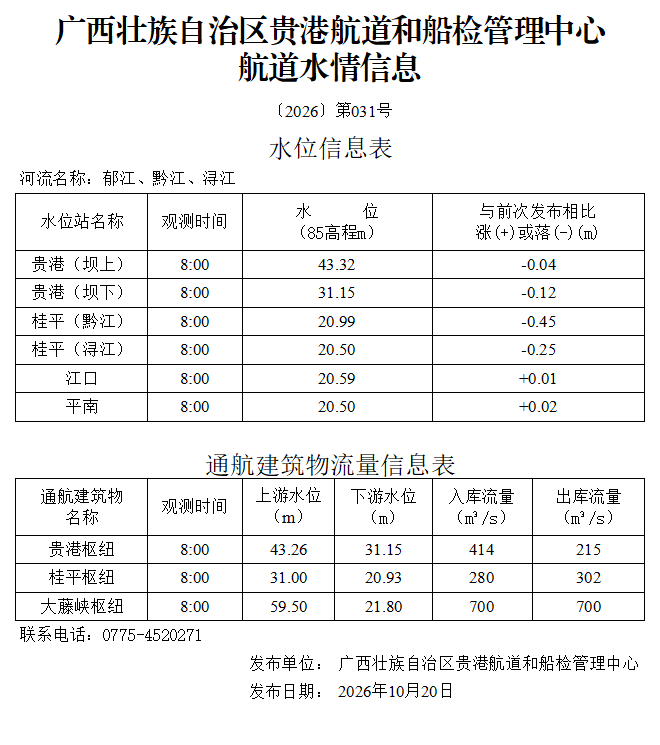
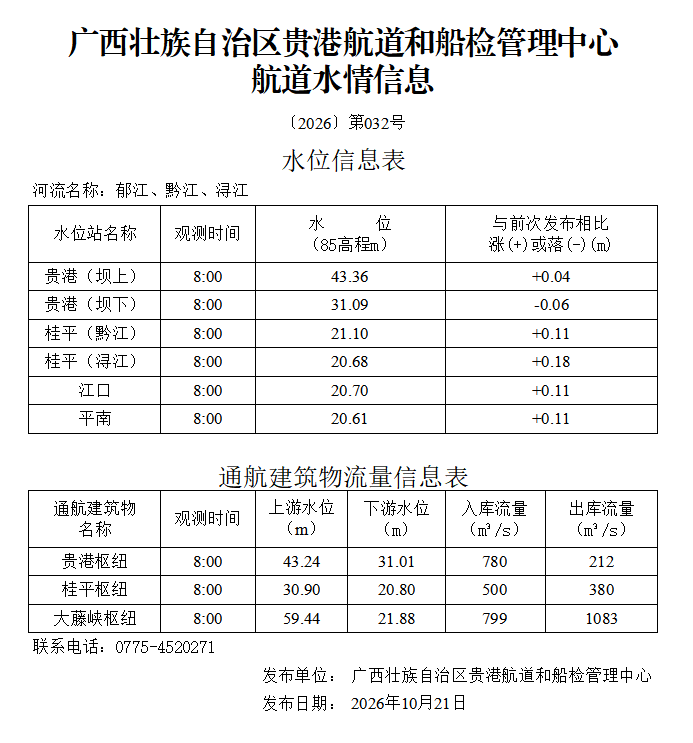
大藤峡和贵港两个枢纽数据从贵港的图片OCR结果中解析，可正常显示。灵活设置站点数据获取状态标识符号。

Changed region(s): [[0.0303, 0.0, 0.9697, 0.9596], [0.3636, 0.8668, 0.4848, 0.9596]]

diff --git a/water_level_report.html b/water_level_report.html
@@ -186,23 +186,23 @@
             <div class="status-item">
                 <span class="status-label">上游整体情况：</span>
                 <span class="status-value status-blue" style="font-size:35px">
-                    水位下降▼ &nbsp;整体变化0.28m &nbsp;&nbsp;
+                    水位较平稳 &nbsp;整体变化0.21m &nbsp;&nbsp;
                 </span>
             </div>
             <div class="status-item">
                 <span class="status-label">今早八点梧州水位：</span>
-                <span class="status-value status-blue">
-                    2.01m&nbsp;
+                <span class="status-value status-red">
+                    2.07m&nbsp;
                 </span>
                 <span class="status-label">较昨日变化：</span>
-                <span class="status-value status-blue">
-                    -0.09m▼
+                <span class="status-value status-red">
+                    +0.06m▲
                 </span>
             </div>
             <div class="status-item">
                 <span class="status-label">近2天梧州水位预报：</span>
                 <span class="status-value status-blue">
-                    1.90m~2.11m      &nbsp;&nbsp;&nbsp;&nbsp;&nbsp;&nbsp;&nbsp;&nbsp;   预计水位变化不大 上下小幅波动    
+                    1.78m~2.36m      &nbsp;&nbsp;&nbsp;&nbsp;&nbsp;&nbsp;&nbsp;&nbsp;   预计水位变化不大 上下小幅波动    
                 </span>
             </div>
         </div>
@@ -210,7 +210,7 @@
             <div class="status-item" style="min-width:1300px">
                 <span class="status-label">🚨水库预警：</span>
                 <span class="warningStatus-value status-red">
-                     <br> &nbsp;长洲枢纽出库流量更大，可能正在放水，对下游水位会有额外影响。<br> &nbsp;贵港枢纽(还差0.09米）、长洲枢纽(还差0.09米）接近正常蓄水位，请留意开闸放水信息！
+                     <br> &nbsp;大藤峡枢纽、长洲枢纽出库流量更大，可能正在放水，对下游水位会有额外影响。<br> &nbsp;贵港枢纽(已超0.14米）水位已超过正常蓄水位，可能进行泄洪放水！<br> &nbsp;长洲枢纽(还差0.04米）接近正常蓄水位，请留意开闸放水信息！
                 </span>
             </div>
             <div class="status-item" style="min-width:1300px">
@@ -222,23 +222,23 @@
         </div>
         
         <div class="image-section">
-            <div class="image-overlay-text status-blue" style="position: absolute; top: 52%; left: 92.5%; font-size:200%;">2.01m</div>
-            <div class="image-overlay-text status-blue" style="position: absolute; top: 62%; left: 92.5%; font-size:150%;">-0.09m▼</div>
-            <div class="image-overlay-text status-blue" style="position: absolute;top: 41.25%;left: 86%;">====</div>
-            <div class="image-overlay-text status-red" style="position: absolute; top: 52%; left: 68%; font-size:200%;">20.41m</div>
-            <div class="image-overlay-text status-red" style="position: absolute; top: 62%; left: 68%; font-size:150%;">+0.06m▲</div>
+            <div class="image-overlay-text status-red" style="position: absolute; top: 52%; left: 92.5%; font-size:200%;">2.07m</div>
+            <div class="image-overlay-text status-red" style="position: absolute; top: 62%; left: 92.5%; font-size:150%;">+0.06m▲</div>
+            <div class="image-overlay-text status-red" style="position: absolute;top: 41.25%;left: 86%;">====</div>
+            <div class="image-overlay-text status-red" style="position: absolute; top: 52%; left: 68%; font-size:200%;">20.51m</div>
+            <div class="image-overlay-text status-red" style="position: absolute; top: 62%; left: 68%; font-size:150%;">+0.10m▲</div>
             <div class="image-overlay-text status-red" style="position: absolute; top: 41.4%; left: 63.85%;">==</div>
-            <div class="image-overlay-text status-blue" style="position: absolute; top: 12%; left: 39%; font-size:200%;">59.55m</div>
-            <div class="image-overlay-text status-blue" style="position: absolute; top: 6%; left: 39%; font-size:150%;">-0.09m▼</div>
+            <div class="image-overlay-text status-blue" style="position: absolute; top: 12%; left: 39%; font-size:200%;">59.53m</div>
+            <div class="image-overlay-text status-blue" style="position: absolute; top: 6%; left: 39%; font-size:150%;">-0.02m▼</div>
             <div class="image-overlay-text status-blue" style="position: absolute; top: 18.9%; left: 23.2%;">===========</div>
-            <div class="image-overlay-text status-blue" style="position: absolute; top: 12%; left: 9%; font-size:200%;">59.46m</div>
-            <div class="image-overlay-text status-blue" style="position: absolute; top: 6%; left: 9%; font-size:150%;">-0.18m▼</div>
-            <div class="image-overlay-text status-blue" style="position: absolute; top: 18.9%; left: 4%;">===</div>
-            <div class="image-overlay-text status-blue" style="position: absolute; top: 57%; left: 13%; font-size:200%;">61.713m</div>
-            <div class="image-overlay-text status-blue" style="position: absolute; top: 51%; left: 13%; font-size:150%;">-0.040m▼</div>
+            <div class="image-overlay-text status-red" style="position: absolute; top: 12%; left: 9%; font-size:200%;">59.67m</div>
+            <div class="image-overlay-text status-red" style="position: absolute; top: 6%; left: 9%; font-size:150%;">+0.21m▲</div>
+            <div class="image-overlay-text status-red" style="position: absolute; top: 18.9%; left: 4%;">===</div>
+            <div class="image-overlay-text status-blue" style="position: absolute; top: 57%; left: 13%; font-size:200%;">61.646m</div>
+            <div class="image-overlay-text status-blue" style="position: absolute; top: 51%; left: 13%; font-size:150%;">-0.067m▼</div>
             <div class="image-overlay-text status-blue" style="position: absolute; top: 63.8%; left: 6%;">====</div>
-            <div class="image-overlay-text status-blue" style="position: absolute; top: 57%; left: 46%; font-size:200%;">43.26m</div>
-            <div class="image-overlay-text status-blue" style="position: absolute; top: 51%; left: 46%; font-size:150%;">-0.030m▼</div>
+            <div class="image-overlay-text status-blue" style="position: absolute; top: 57%; left: 46%; font-size:200%;">43.25m</div>
+            <div class="image-overlay-text status-blue" style="position: absolute; top: 51%; left: 46%; font-size:150%;">-0.010m▼</div>
             <div class="image-overlay-text status-blue" style="position: absolute; top: 63.8%; left: 28.5%;">============</div>
             <div class="image-overlay-text" style="position: absolute; top: 42.4%; left: 92.2%;font-size:200%">⚠</div>
             <div class="image-overlay-text" style="position: absolute; top: 42.4%; left: 66.9%;font-size:200%"> </div>
@@ -246,16 +246,16 @@
             <div class="image-overlay-text" style="position: absolute; top: 20%; left: 8.6%;font-size:200%"> </div>
             <div class="image-overlay-text" style="position: absolute; top: 65%; left: 12%;font-size:200%"> </div>
             <div class="image-overlay-text" style="position: absolute; top: 65%; left: 45%;font-size:200%"> </div>
-            <div class="image-overlay-text" style="position: absolute;top: 17%;left: 53.75%;font-size: 180%;writing-mode: vertical-rl;text-orientation: mixed;justify-content: center;align-items: center;display: flex;height: 20%;color:blue"> 正常</div>
-            <div class="image-overlay-text" style="position: absolute; top: 59.9%;left: 56.1%;font-size: 180%;writing-mode: vertical-rl;text-orientation: mixed;justify-content: center;align-items: center;display: flex;height: 20%;color:blue"> ⚠</div>
+            <div class="image-overlay-text" style="position: absolute;top: 17%;left: 53.75%;font-size: 180%;writing-mode: vertical-rl;text-orientation: mixed;justify-content: center;align-items: center;display: flex;height: 20%;color:blue"> 🌊</div>
+            <div class="image-overlay-text" style="position: absolute; top: 59.9%;left: 56.1%;font-size: 180%;writing-mode: vertical-rl;text-orientation: mixed;justify-content: center;align-items: center;display: flex;height: 20%;color:blue"> 🚨</div>
             <div class="image-overlay-text" style="position: absolute; top: 39%; left: 79%;font-size: 180%;writing-mode: vertical-rl;text-orientation: mixed;justify-content: center;align-items: center;display: flex; height: 20%;color:blue"> 🌊⚠</div>
-            <div class="image-overlay-text status-blue" style="position: absolute;top: -0.5%;left: 53.8%;font-size: 180%;">59.568m</div>
-            <div class="image-overlay-text status-blue" style="position: absolute;top: 19%;left: 62%;font-size: 100%;">入库流量: -m³</div>
-            <div class="image-overlay-text status-blue" style="position: absolute;top: 39%;left: 51%;font-size: 100%;">出库流量：577m³</div>
-            <div class="image-overlay-text status-orange" style="position: absolute;top: 88%;left: 56%;font-size: 180%;">43.01m</div>
-            <div class="image-overlay-text status-orange" style="position: absolute;top: 80%;left: 66.5%;font-size: 100%;">入库流量：-m³</div>
-            <div class="image-overlay-text status-orange" style="position: absolute;top: 85%;left: 66.5%;font-size: 100%;">出库流量: 365m³</div>
-            <div class="image-overlay-text status-orange" style="position: absolute;top: 3%;left: 79%;font-size: 180%;">20.51m</div>
+            <div class="image-overlay-text status-orange" style="position: absolute;top: -0.5%;left: 53.8%;font-size: 180%;">59.44m</div>
+            <div class="image-overlay-text status-orange" style="position: absolute;top: 19%;left: 62%;font-size: 100%;">入库流量: 799m³</div>
+            <div class="image-overlay-text status-orange" style="position: absolute;top: 39%;left: 51%;font-size: 100%;">出库流量：1083m³</div>
+            <div class="image-overlay-text status-red" style="position: absolute;top: 88%;left: 56%;font-size: 180%;">43.24m</div>
+            <div class="image-overlay-text status-red" style="position: absolute;top: 80%;left: 66.5%;font-size: 100%;">入库流量：780m³</div>
+            <div class="image-overlay-text status-red" style="position: absolute;top: 85%;left: 66.5%;font-size: 100%;">出库流量: 212m³</div>
+            <div class="image-overlay-text status-orange" style="position: absolute;top: 3%;left: 79%;font-size: 180%;">20.56m</div>
             <div class="image-overlay-text status-orange" style="position: absolute;top: 12%;left: 86.5%;font-size: 100%;">入库流量：1300m³</div>
             <div class="image-overlay-text status-orange" style="position: absolute;top: 18%;left: 86.5%;font-size: 100%;">出库流量：1300m³</div>
             <img src="river.jpg" alt="西江流域图">
@@ -263,7 +263,7 @@
         <div class="cc">
             <span style="color:#414141; font-size:120%"> 站点数据是否获取 </span> <span class="cc" style="font-size:75%">&nbsp;&nbsp;&nbsp;&nbsp;已获取到数据 </span><span class="c-c" style="font-size:75%">&nbsp;&nbsp;&nbsp;&nbsp;&nbsp;未获取到数据</span> <br>
             <div style="display: flex; justify-content:space-between; align-items: center;">
-                <span class="c▼c">⚫梧州</span><span class="c▲c">⚫濛江</span><span class="c▼c">⚫横县</span><span class="c▼c">⚫峦城</span><span class="c▼c">⚫武宣</span><span class="c▼c">⚫来宾</span><span class="c1300c">⚫长洲枢纽</span><span class="c-c">⚫大藤峡枢纽</span><span class="c-c">⚫贵港枢纽</span>
+                <span class="c▲c">&nbsp;&nbsp;✅梧州</span><span class="c▲c">✅濛江</span><span class="c▼c">✅横县</span><span class="c▼c">✅峦城</span><span class="c▼c">✅武宣</span><span class="c▲c">✅来宾</span><span class="c1300c">✅长洲枢纽</span><span class="c799c">✅大藤峡枢纽</span><span class="c780c">✅贵港枢纽&nbsp;&nbsp;</span>
             </div>
         </div>
         <div class="table-section">
@@ -762,13 +762,23 @@
                         <td>61.713 ▼ (-0.040)</td>
                     </tr>
 
+                    <tr>
+                        <td>2026-10-21 08:00</td>
+                        <td>2.07 ▲ (+0.06)</td>
+                        <td>20.51 ▲ (+0.10)</td>
+                        <td>43.25 ▼ (-0.010)</td>
+                        <td>59.53 ▼ (-0.02)</td>
+                        <td>59.67 ▲ (+0.21)</td>
+                        <td>61.646 ▼ (-0.067)</td>
+                    </tr>
+
                 </tbody>
             </table>
         </div>
 
         <div class="timestamp">
-            报告生成时间: 2026-10-20 16:15:32<br>
-            数据记录数: 48 条
+            报告生成时间: 2026-10-21 11:07:36<br>
+            数据记录数: 49 条
         </div>
     </div>
 
@@ -777,11 +787,11 @@
         new Chart(ctx, {
             type: 'line',
             data: {
-                labels: ["2026-10-06 08:00", "2026-10-07 08:00", "2026-10-08 8:00", "2026-10-09 8:00", "2026-10-10 08:00", "2026-10-12 8:00", "2026-10-13 08:00", "2026-10-14 08:00", "2026-10-15 08:00", "2026-10-16 08:00", "2026-10-17 08:00", "2026-10-18 08:00", "2026-10-19 08:00", "2026-10-20 08:00"],
+                labels: ["2026-10-07 08:00", "2026-10-08 8:00", "2026-10-09 8:00", "2026-10-10 08:00", "2026-10-12 8:00", "2026-10-13 08:00", "2026-10-14 08:00", "2026-10-15 08:00", "2026-10-16 08:00", "2026-10-17 08:00", "2026-10-18 08:00", "2026-10-19 08:00", "2026-10-20 08:00", "2026-10-21 08:00"],
                 datasets: [
                 {
                     label: '梧州',
-                    data: [2.83, 2.93, 2.97, 2.93, 2.86, 2.66, 2.64, 2.16, 2.25, 2.24, 2.15, 2.07, 2.1, 2.01],
+                    data: [2.93, 2.97, 2.93, 2.86, 2.66, 2.64, 2.16, 2.25, 2.24, 2.15, 2.07, 2.1, 2.01, 2.07],
                     borderColor: 'rgb(255, 99, 132)',
                     backgroundColor: 'rgb(255, 99, 132)',
                     tension: 0.1,
@@ -789,7 +799,7 @@
                 },
                 {
                     label: '濛江',
-                    data: [20.61, 20.62, 20.68, 20.59, 20.43, 20.4, 20.4, 20.4, 20.39, 20.37, 20.31, 20.35, 20.35, 20.41],
+                    data: [20.62, 20.68, 20.59, 20.43, 20.4, 20.4, 20.4, 20.39, 20.37, 20.31, 20.35, 20.35, 20.41, 20.51],
                     borderColor: 'rgb(54, 162, 235)',
                     backgroundColor: 'rgb(54, 162, 235)',
                     tension: 0.1,
@@ -797,7 +807,7 @@
                 },
                 {
                     label: '横县',
-                    data: [43.246, 43.235, 43.521, 43.441, 43.471, 43.15, 42.93, 43.122, 43.292, 43.365, 43.432, 43.192, 43.29, 43.26],
+                    data: [43.235, 43.521, 43.441, 43.471, 43.15, 42.93, 43.122, 43.292, 43.365, 43.432, 43.192, 43.29, 43.26, 43.25],
                     borderColor: 'rgb(255, 205, 86)',
                     backgroundColor: 'rgb(255, 205, 86)',
                     tension: 0.1,
@@ -805,7 +815,7 @@
                 },
                 {
                     label: '武宣',
-                    data: [59.63, 59.71, 59.65, 59.65, 59.69, 59.78, 59.71, 59.66, 59.65, 59.78, 59.69, 59.71, 59.64, 59.55],
+                    data: [59.71, 59.65, 59.65, 59.69, 59.78, 59.71, 59.66, 59.65, 59.78, 59.69, 59.71, 59.64, 59.55, 59.53],
                     borderColor: 'rgb(75, 192, 192)',
                     backgroundColor: 'rgb(75, 192, 192)',
                     tension: 0.1,
@@ -813,7 +823,7 @@
                 },
                 {
                     label: '来宾',
-                    data: [59.62, 59.6, 59.54, 59.56, 59.56, 59.67, 59.61, 59.59, 59.57, 59.67, 59.63, 59.67, 59.64, 59.46],
+                    data: [59.6, 59.54, 59.56, 59.56, 59.67, 59.61, 59.59, 59.57, 59.67, 59.63, 59.67, 59.64, 59.46, 59.67],
                     borderColor: 'rgb(153, 102, 255)',
                     backgroundColor: 'rgb(153, 102, 255)',
                     tension: 0.1,
@@ -821,7 +831,7 @@
                 },
                 {
                     label: '峦城',
-                    data: [61.686, 61.723, 61.635, 61.549, 61.523, 61.579, 61.957, 61.993, 61.834, 61.929, 61.931, 61.853, 61.753, 61.713],
+                    data: [61.723, 61.635, 61.549, 61.523, 61.579, 61.957, 61.993, 61.834, 61.929, 61.931, 61.853, 61.753, 61.713, 61.646],
                     borderColor: 'rgb(255, 159, 64)',
                     backgroundColor: 'rgb(255, 159, 64)',
                     tension: 0.1,

diff --git a/screenshot.py b/screenshot.py
@@ -684,7 +684,37 @@ def generate_html_report(data):
         rwC = "red"
     else:
         reservoir_warning += '无预警信息'
-    
+
+    #各站点是否获取数据标识
+    wzS = '❎'
+    mjS = '❎'
+    wxS = '❎'
+    lbS = '❎'
+    hxS = '❎'
+    lcS = '❎'
+    czS = '❎'
+    ggS = '❎'
+    dtxS = '❎'
+
+    if latest_wuzhou_desc != '-':
+        wzS = '✅'
+    if latest_mengjiang_desc != '-':
+        mjS = '✅'
+    if latest_wuxuan_desc != '-':
+        wxS = '✅'
+    if latest_laibing_desc != '-':
+        lbS = '✅'
+    if latest_hx_desc != '-':
+        hxS = '✅'
+    if latest_luancheng_desc != '-':
+        lcS = '✅'
+    if latest_changzhou_rkll != '-':
+        czS = '✅'
+    if latest_gg_rkll != '-':
+        ggS = '✅'
+    if latest_datengxia_rkll != '-':
+        dtxS = '✅'
+
     # 添加状态显示区域
     html_content += f"""
         
@@ -769,7 +799,7 @@ def generate_html_report(data):
         <div class="cc">
             <span style="color:#414141; font-size:120%"> 站点数据是否获取 </span> <span class="cc" style="font-size:75%">&nbsp;&nbsp;&nbsp;&nbsp;已获取到数据 </span><span class="c-c" style="font-size:75%">&nbsp;&nbsp;&nbsp;&nbsp;&nbsp;未获取到数据</span> <br>
             <div style="display: flex; justify-content:space-between; align-items: center;">
-                <span class="c{latest_wuzhou_desc}c">&nbsp;&nbsp;⚫梧州</span><span class="c{latest_mengjiang_desc}c">⚫濛江</span><span class="c{latest_hx_desc}c">⚫横县</span><span class="c{latest_luancheng_desc}c">⚫峦城</span><span class="c{latest_wuxuan_desc}c">⚫武宣</span><span class="c{latest_laibing_desc}c">⚫来宾</span><span class="c{latest_changzhou_rkll}c">⚫长洲枢纽</span><span class="c{latest_datengxia_rkll}c">⚫大藤峡枢纽</span><span class="c{latest_gg_rkll}c">⚫贵港枢纽&nbsp;&nbsp;</span>
+                <span class="c{latest_wuzhou_desc}c">&nbsp;&nbsp;{wzS}梧州</span><span class="c{latest_mengjiang_desc}c">{mjS}濛江</span><span class="c{latest_hx_desc}c">{hxS}横县</span><span class="c{latest_luancheng_desc}c">{lcS}峦城</span><span class="c{latest_wuxuan_desc}c">{wxS}武宣</span><span class="c{latest_laibing_desc}c">{lbS}来宾</span><span class="c{latest_changzhou_rkll}c">{czS}长洲枢纽</span><span class="c{latest_datengxia_rkll}c">{dtxS}大藤峡枢纽</span><span class="c{latest_gg_rkll}c">{ggS}贵港枢纽&nbsp;&nbsp;</span>
             </div>
         </div>
         <div class="table-section">
@@ -1000,8 +1030,63 @@ def ocr_image(img_filename):
     }
 
     response = requests.post(ocr_url, json=payload, headers=ocr_headers, timeout=60)
-    print(f"OCR识别结果:\n{response.text}")
+    print(f"OCR识别完成")
     return response.text
+
+
+def parse_ocr_reservoir_data(ocr_json_str, publish_date):
+    """从OCR识别结果中解析水库/枢纽数据"""
+    target_reservoirs = ['贵港枢纽', '大藤峡枢纽']
+    results = {}
+
+    try:
+        ocr_data = json.loads(ocr_json_str)
+    except json.JSONDecodeError:
+        print("OCR结果JSON解析失败")
+        return results
+
+    # layout_details 是一个列表的列表（按页）
+    layout_details = ocr_data.get('layout_details', [])
+    for page in layout_details:
+        for item in page:
+            content = item.get('content', '')
+            # 只处理包含通航建筑物流量信息表的表格内容
+            if '通航建筑物' in content and '<table' in content:
+                soup = BeautifulSoup(content, 'html.parser')
+                rows = soup.find_all('tr')
+                for row in rows[1:]:  # 跳过表头
+                    cells = row.find_all('td')
+                    if len(cells) >= 6:
+                        reservoir_name = cells[0].get_text(strip=True)
+                        if reservoir_name in target_reservoirs:
+                            observation_time = cells[1].get_text(strip=True)
+                            upstream_level = cells[2].get_text(strip=True)
+                            downstream_level = cells[3].get_text(strip=True)
+                            inflow = cells[4].get_text(strip=True)
+                            outflow = cells[5].get_text(strip=True)
+
+                            # 计算是否放水：出库流量 >= 入库流量则为1，否则为0
+                            try:
+                                inflow_float = float(inflow)
+                                outflow_float = float(outflow)
+                                is_releasing = 1 if outflow_float >= inflow_float else 0
+                            except (ValueError, TypeError):
+                                is_releasing = 0
+
+                            # 组合完整日期时间
+                            full_datetime = f"{publish_date} {observation_time}"
+
+                            results[reservoir_name] = {
+                                '站名': reservoir_name,
+                                '时间': full_datetime,
+                                '上游水位': upstream_level,
+                                '入库流量': inflow,
+                                '出库流量': outflow,
+                                '是否放水': is_releasing
+                            }
+                            print(f"OCR提取枢纽数据: {reservoir_name} 上游水位={upstream_level} 入库={inflow} 出库={outflow}")
+
+    return results
 
 
 def parse_reservoir_data(html_content, publish_date):
@@ -1198,6 +1283,10 @@ def main():
                             # 对下载的图片进行OCR识别
                             print("正在进行OCR识别...")
                             ocr_result = ocr_image(img_filename)
+
+                            # 从OCR结果中解析贵港枢纽和大藤峡枢纽数据
+                            ocr_reservoir_data = parse_ocr_reservoir_data(ocr_result, publish_date)
+                            all_reservoir_data.update(ocr_reservoir_data)
                         except Exception as e:
                             print(f"下载贵港水情图片失败: {e}")
 

diff --git a/README.md b/README.md
@@ -7,8 +7,9 @@
 **1.** 爬取广西水运发展中心每日发布的官方航道水情信息，涵盖梧州仓码上游西江流域内6个水文站点与3个通航水利枢纽的水位相关数据。  
 **2.** 存储每日的航道水位与水利枢纽相关数据到本地，本地化持久存储。  
 **3.** 将爬取到的航道水位数据可视化展示，并做分析，初步预判近日梧州航道水位变化情况。   
-**4.** 对爬取到的水位数据进行分析，并进行相关预警信息的显示，包含高水位、水位超警、放水、大流量、快速涨水与低水位预警。    
-**5.** 支持将.py文件打包为.exe程序，可以在其他电脑更方便的使用。
+**4.** 对爬取到的水位数据进行分析，并进行相关预警信息的显示，包含高水位、水位超警、放水、大流量、快速涨水与低水位预警。
+**5.** 可以显示哪些水文站点和大坝的数据被成功爬取，及时了解程序运行情况。
+**6.** 支持将.py文件打包为.exe程序，可以在其他电脑更方便的使用。
 
 ## 使用说明（打包后）
 **所有操作仅在"dist"文件夹内操作使用即可，请先确保river.jpg、water_level_data.json在dist文件夹内！**  
